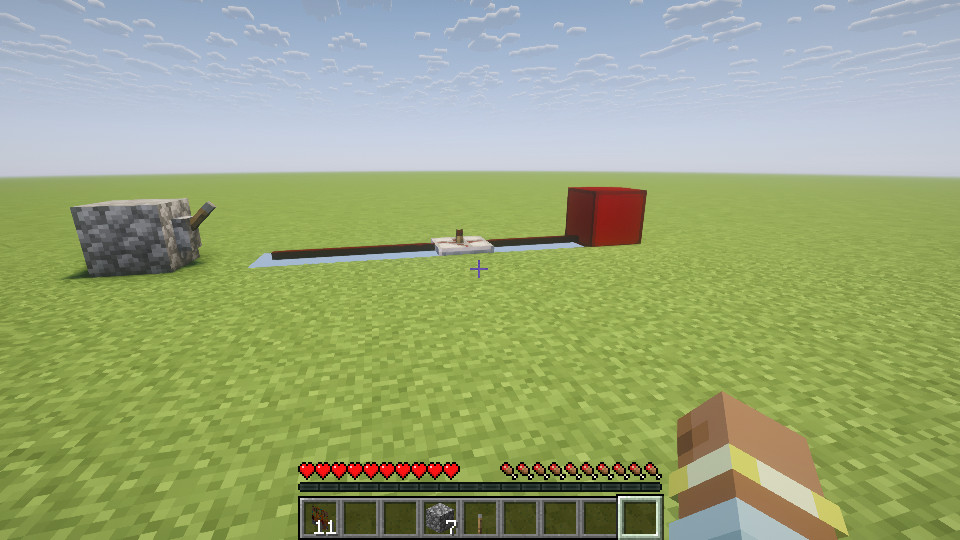
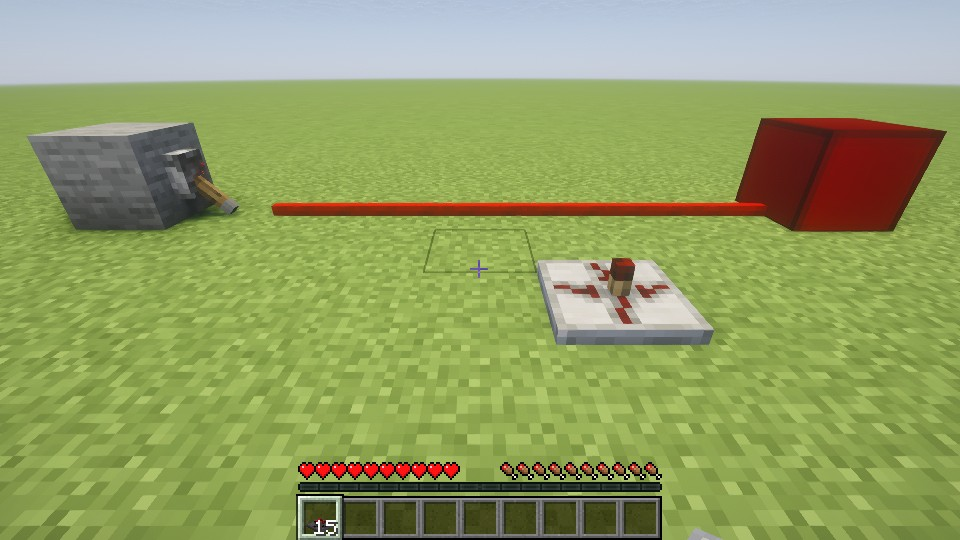
Retake RedPower 1.4.7 wire/gate/lamp README screenshots with MoreCulling installed (ground visible under wire and gate)
Claude-Session: https://claude.ai/code/session_013WYWcbTXcR9yZDGwQA1imZ

diff --git a/docs/screenshots/old-versions/README.md b/docs/screenshots/old-versions/README.md
@@ -27,7 +27,7 @@ Complementary Reimagined r5.9.3 + Euphoria Patches (Iris reported "Using shaderp
 | `1.4.7/applied-energistics-ore-and-machine-survival-shaders.jpg` | Applied Energistics | rv9 | Quartz ore and a machine block placed in survival mode | Partly working |
 | `1.4.7/redpower-alloy-furnace-near-black-before.jpg`, `1.4.7/redpower-alloy-furnace-lit-after-fix.jpg` | RedPower 2 (Base) | 2.0pr6 | Render sweep (2026-11-07), before and after: the alloy furnace placed in daylight drew near-black (every vertex colour 0.2). RedPower's `RenderContext` averages `getAmbientOcclusionLightValue(world, x, y, z)` of the cells around the block, calling it on its own block with the neighbours' coordinates; the forward layer answered with the receiver's value (0.2, opaque) for every cell. After: the brick sides, the furnace mouth and a machine block show their sheet tiles | Works |
 
-| `1.4.7/redpower-logic-not-gate-lever-lamp-lit-survival-shaders.jpg`, `1.4.7/redpower-logic-not-gate-lever-lamp-dark-survival-shaders.jpg` | RedPower 2 (Wiring, Logic, Lighting) | 2.0pr6 | Survival, shaders: a vanilla lever beside a red alloy wire, a NOT gate and a red lamp, placed through the item path. Lever off: the gate outputs and the lamp is lit; lever on: the wire carries the signal and the lamp goes dark | Works |
+| `1.4.7/redpower-logic-not-gate-lever-lamp-lit-survival-shaders.jpg`, `1.4.7/redpower-logic-not-gate-lever-lamp-dark-survival-shaders.jpg` | RedPower 2 (Wiring, Logic, Lighting) | 2.0pr6 | Survival, shaders and the usual performance mods incl. MoreCulling (retaken 2026-11-07, current master: the grass shows under the wire and gate, no sky-coloured strip): a vanilla lever on stone powers a red alloy wire that lights a red lamp (lit image; the NOT gate stands beside the line). Dark image: lever on, NOT gate in the line, lamp dark (in the retake the gate did not pass a signal when lever was off, see issue notes) | Works |
 | `1.4.7/redpower-transposer-tubes-chest-survival-shaders.jpg` | RedPower 2 (Machine) | 2.0pr6 | Survival: a transposer moves items from a chest through two pneumatic tubes into a second chest when a redstone block pulses it (retaken: the grass under the tubes was a pale blue hole, MoreCulling culling the ground's face against the tube; the tubes connect to the chest: the layer's view of a vanilla chest is an `IInventory`) | Works |
 | `1.4.7/redpower-deployer-places-cobblestone-survival-shaders.jpg` | RedPower 2 (Machine) | 2.0pr6 | Survival: a deployer with cobblestone in its inventory places the block in front of it on a redstone pulse (next to the chest and tubes) | Works |
 | `1.4.7/redpower-project-table-crafting-survival-shaders.jpg` | RedPower 2 (Base) | 2.0pr6 | Survival: the project table screen after crafting sticks from planks (the recipe lookup of the client container had no world and found nothing before) | Works |
